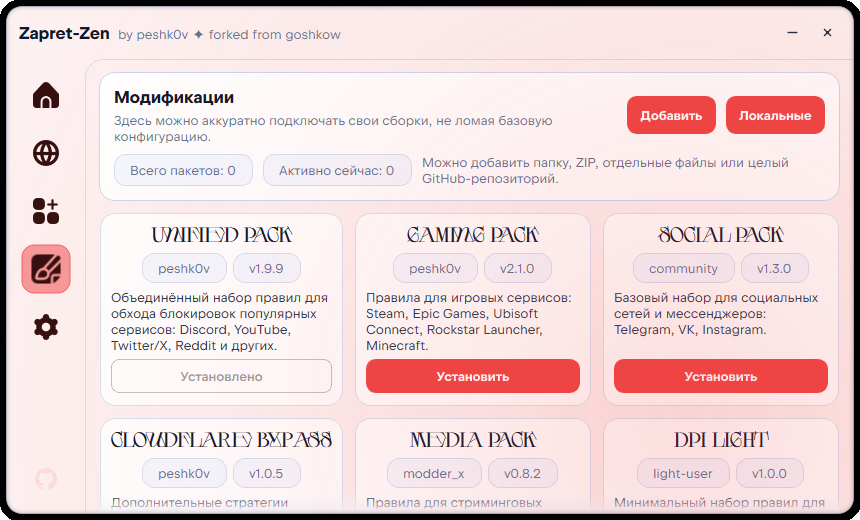
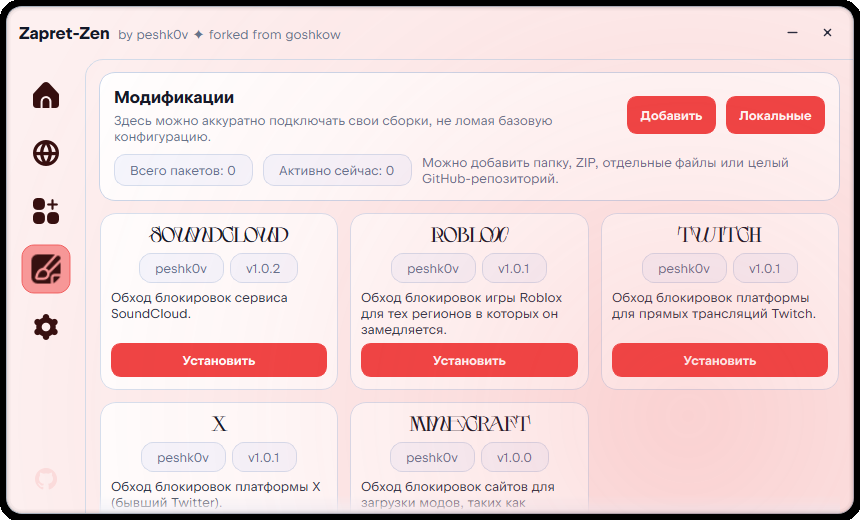
README UPDATE 2

diff --git a/scripts/take_screenshots.py b/scripts/take_screenshots.py
@@ -19,49 +19,43 @@ RADIUS = 18
 PAGES = [(0, "dashboard"), (1, "services"), (3, "mods")]
 THEMES = ["light", "dark"]
 
+# Real catalog data from https://raw.githubusercontent.com/peshk0v/Zapret-Hub-Zen-Mods/refs/heads/main/catalog.json
 _CATALOG_DATA = [
     {
-        "Title": "Unified Pack",
-        "Description": "Объединённый набор правил для обхода блокировок популярных сервисов: Discord, YouTube, Twitter/X, Reddit и других.",
+        "Title": "SoundCloud",
+        "Description": "Обход блокировок сервиса SoundCloud.",
         "Author": "peshk0v",
-        "Tag": "unified-by-peshk0v",
-        "Version": "1.9.9",
+        "Tag": "SoundCloud-by-peshk0v",
+        "Version": "1.0.2"
     },
     {
-        "Title": "Gaming Pack",
-        "Description": "Правила для игровых сервисов: Steam, Epic Games, Ubisoft Connect, Rockstar Launcher, Minecraft.",
+        "Title": "Roblox",
+        "Description": "Обход блокировок игры Roblox для тех регионов в которых он замедляется.",
         "Author": "peshk0v",
-        "Tag": "gaming-by-peshk0v",
-        "Version": "2.1.0",
+        "Tag": "Roblox-by-peshk0v",
+        "Version": "1.0.1"
     },
     {
-        "Title": "Social Pack",
-        "Description": "Базовый набор для социальных сетей и мессенджеров: Telegram, VK, Instagram.",
-        "Author": "community",
-        "Tag": "social-by-community",
-        "Version": "1.3.0",
-    },
-    {
-        "Title": "Cloudflare Bypass",
-        "Description": "Дополнительные стратегии обхода для сервисов, защищённых Cloudflare.",
+        "Title": "Twitch",
+        "Description": "Обход блокировок платформы для прямых трансляций Twitch.",
         "Author": "peshk0v",
-        "Tag": "cloudflare-bypass",
-        "Version": "1.0.5",
+        "Tag": "Twitch-by-peshk0v",
+        "Version": "1.0.1"
     },
     {
-        "Title": "Media Pack",
-        "Description": "Правила для стриминговых сервисов: Twitch, YouTube, Kick, SoundCloud.",
-        "Author": "modder_x",
-        "Tag": "media-streaming",
-        "Version": "0.8.2",
+        "Title": "X",
+        "Description": "Обход блокировок платформы X (бывший Twitter).",
+        "Author": "peshk0v",
+        "Tag": "X-by-peshk0v",
+        "Version": "1.0.1"
     },
     {
-        "Title": "DPI Light",
-        "Description": "Минимальный набор правил для обхода DPI без лишних стратегий.",
-        "Author": "light-user",
-        "Tag": "dpi-light",
-        "Version": "1.0.0",
-    },
+        "Title": "Minecraft",
+        "Description": "Обход блокировок сайтов для загрузки модов, таких как Modrinth и CurseForge",
+        "Author": "peshk0v",
+        "Tag": "Minecraft-by-peshk0v",
+        "Version": "1.0.0"
+    }
 ]
 
 
@@ -136,13 +130,10 @@ def main():
         mods_page = window._mods_page
         mods_page._catalog_data = list(_CATALOG_DATA)
         mods_page._catalog_loaded = True
-        mods_page._catalog_installed_ids = {"unified-by-peshk0v", "gaming-by-peshk0v"}
-        mods_page._catalog_installed_versions = {"unified-by-peshk0v": "1.9.9", "gaming-by-peshk0v": "2.1.0"}
         mods_page._show_catalog()
 
     def close_mods_catalog():
-        mods_page = window._mods_page
-        mods_page._show_local()
+        window._mods_page._show_local()
 
     theme_queue = list(THEMES)
     page_queue = []
